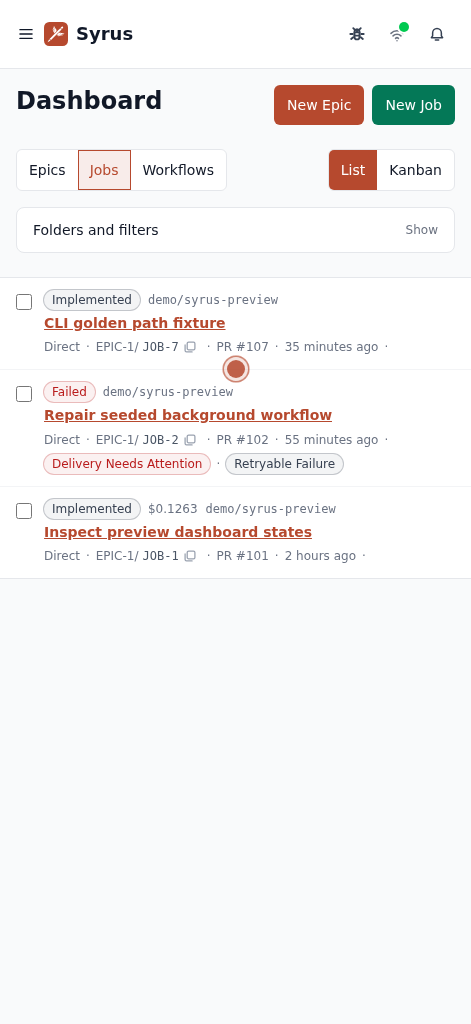
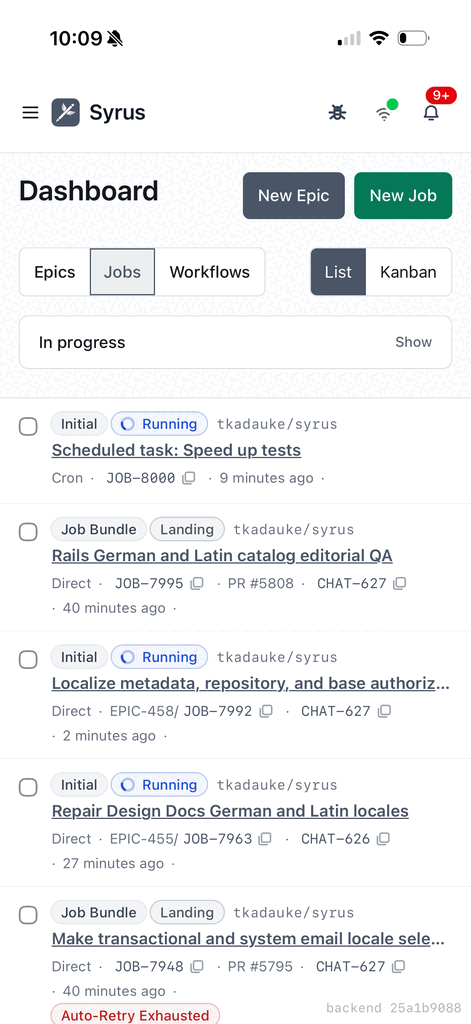
Refresh the product screenshots and drop two stale gallery tiles
The hero, its mobile twin, and the dashboard gallery tile are retaken
from a live instance; the private host and account in the window chrome
are blurred out.

The hero also stops contradicting itself: its alt text says "The Syrus
dashboard turning GitHub issues into pull requests" while the image was a
chat view.

Removes the video-walkthrough and spending-audit tiles. Both captions
promise content the current screenshots do not show -- a narrated
recording being analysed, and a cost trend -- so there was nothing
accurate to put in them. That leaves one tile, so the gallery drops its
three-column grid for the video's column width, and the section subtitle
loses the cost-visibility clause that described the removed tile.

The product video's `poster` and the README's hero badge both pointed at
one of the deleted files, neither of which fails loudly: a broken poster
renders blank and GitHub renders a broken image. Both now point at the
hero screenshot, and a spec resolves every local asset path referenced by
a website component or embedded by the README, so the next removal cannot
leave a dangling reference behind.

diff --git a/website/components/product-media.tsx b/website/components/product-media.tsx
@@ -3,19 +3,9 @@ import { SectionHeader } from "./section";
 
 const screenshots = [
   {
-    src: "/media/walkthrough-recording.png",
-    title: "Video walkthrough analysis",
-    alt: "A Syrus chat view showing a narrated screen recording analyzed into a draft Job.",
-  },
-  {
     src: "/media/epic-merge-train.png",
     title: "Dashboard triage queue",
     alt: "A Syrus dashboard list showing Jobs, workflow status, filters, and review state.",
-  },
-  {
-    src: "/media/spending-audit.png",
-    title: "Spending and audit trail",
-    alt: "A Syrus spending dashboard showing model cost trend and top spend categories.",
   },
 ] as const;
 
@@ -26,7 +16,7 @@ export function ProductMedia() {
         <SectionHeader
           eyebrow="Product demo"
           title="A narrated screen recording can become the next reviewed PR."
-          subtitle="The launch walkthrough centers on the video-to-Job flow, then follows that work through tracked execution, review queues, and cost visibility."
+          subtitle="The launch walkthrough centers on the video-to-Job flow, then follows that work through tracked execution and review queues."
         />
 
         <Reveal className="mx-auto mt-12 max-w-5xl">
@@ -36,7 +26,7 @@ export function ProductMedia() {
               controls
               playsInline
               preload="metadata"
-              poster="/media/walkthrough-recording.png"
+              poster="/product-screenshot.png"
               aria-label="Syrus product screencast showing a video walkthrough becoming a tracked Job."
             >
               <source
@@ -59,7 +49,7 @@ export function ProductMedia() {
         </Reveal>
 
         <RevealGroup
-          className="mt-8 grid gap-4 md:grid-cols-3"
+          className="mx-auto mt-8 grid max-w-5xl gap-4"
           stagger={0.08}
         >
           {screenshots.map((shot) => (

diff --git a/spec/website/public_asset_references_spec.rb b/spec/website/public_asset_references_spec.rb
@@ -1,0 +1,44 @@
+# frozen_string_literal: true
+
+require "spec_helper"
+
+# Every image the site and the README point at must actually be in
+# website/public. Removing a screenshot is a two-place edit -- the gallery entry
+# AND whatever else references the file -- and nothing caught the second place:
+# a deleted screenshot stayed wired up as the product video's `poster` and as
+# the README's hero badge, both of which fail silently (a broken poster just
+# renders blank, and GitHub shows a broken image).
+RSpec.describe "website public asset references" do
+  REPO_ROOT = File.expand_path("../..", __dir__)
+  PUBLIC_DIR = File.join(REPO_ROOT, "website/public")
+
+  # Local absolute asset paths only: "/media/x.png", "/product-screenshot.png".
+  # Skips http(s), protocol-relative, and Next route paths without an extension.
+  ASSET_REFERENCE = %r{["'(](/[\w./-]+\.(?:png|jpe?g|webp|avif|svg|mp4|webm|vtt|ico))["')]}
+
+  def component_sources
+    Dir.glob(File.join(REPO_ROOT, "website/{components,src}/**/*.{ts,tsx}"))
+      .reject { |path| path.include?("/node_modules/") }
+  end
+
+  it "resolves every asset path referenced by a website component" do
+    missing = component_sources.flat_map do |path|
+      File.read(path, encoding: "UTF-8").scan(ASSET_REFERENCE).flatten.uniq.filter_map do |ref|
+        next if File.exist?(File.join(PUBLIC_DIR, ref.delete_prefix("/")))
+
+        "#{path.delete_prefix("#{REPO_ROOT}/")} -> #{ref}"
+      end
+    end
+
+    expect(missing).to be_empty, "components reference assets that are not in website/public:\n  #{missing.join("\n  ")}"
+  end
+
+  it "resolves every repo-relative website image the README embeds" do
+    readme = File.read(File.join(REPO_ROOT, "README.md"), encoding: "UTF-8")
+    refs = readme.scan(%r{\((website/public/[\w./-]+\.(?:png|jpe?g|webp|avif|svg))\)}).flatten.uniq
+
+    expect(refs).not_to be_empty, "expected the README to embed at least one website image"
+    missing = refs.reject { |ref| File.exist?(File.join(REPO_ROOT, ref)) }
+    expect(missing).to be_empty, "README embeds missing images: #{missing.join(", ")}"
+  end
+end

diff --git a/README.md b/README.md
@@ -4,7 +4,7 @@
 [Read the methodology](https://syrus-ai.dev/docs/dogfooding) behind the
 merged-PR claim.
 
-[![Syrus product screencast showing a video walkthrough becoming a tracked Job](website/public/media/walkthrough-recording.png)](https://syrus-ai.dev/#walkthrough-demo)
+[![The Syrus dashboard turning GitHub issues into pull requests](website/public/product-screenshot.png)](https://syrus-ai.dev/#walkthrough-demo)
 
 [![License: MIT](https://img.shields.io/badge/license-MIT-2f855a.svg)](LICENSE)
 [![Self-hosted](https://img.shields.io/badge/self--hosted-Docker%20Compose-b6492e.svg)](https://syrus-ai.dev/docs/deployment/docker-compose)
